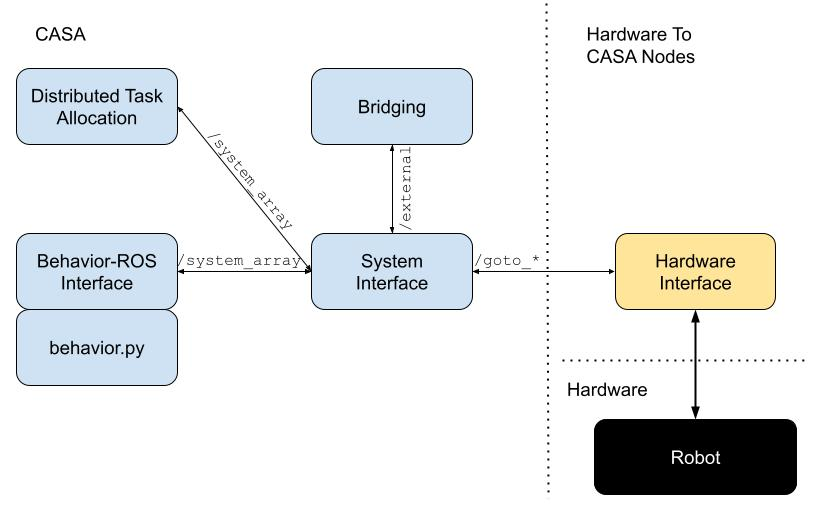
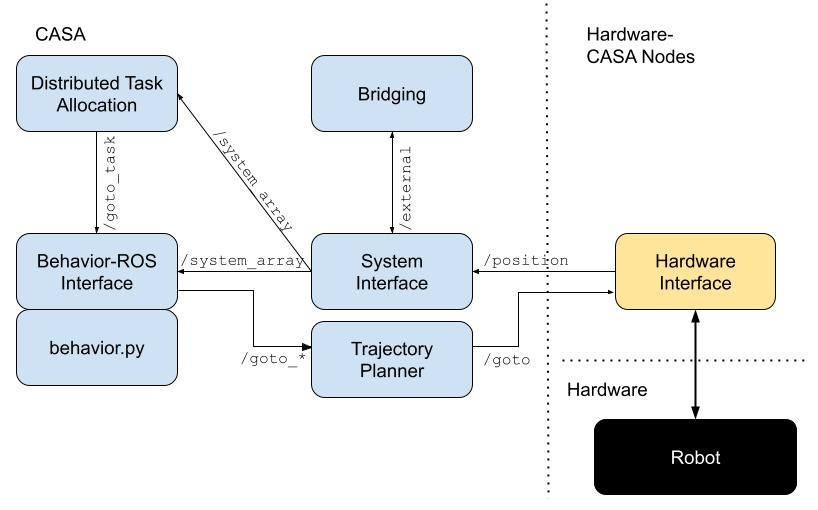
updating main README

diff --git a/README.md b/README.md
@@ -6,10 +6,16 @@ Welcome to the main repo for the Collaborative Aerial Swarm Architecture, dubbed
 The image shows the current arcitecture of CASA. 
 ![architecture](docs/CASA-July2023.jpg)
 
-At the heart of CASA is the System Interface Node. 
+At the heart of CASA is the System Interface Node, this node organizes the data from the each other eagent in the swarm and passes it along via the `/system_array` topic so that other nodes can use it to make informed decisions and plan.  
 
-### Packages ###
+The Distributed Task Allocation node is an implementation of a novel task allocation alogorithm designed for multi-robot systems. This will read in tasks via a kml file and allocate each agent to a task optimally. More tasks can be added in whenever. This node is still under development.
 
+The behavior-ros interface node is the backend for each behavior that is written. It takes in all the information from the system interface and makes puts it in class varaibles so the behavior has access to it (via inheritance). Once the behavior sets a waypoint or velocity the behavior-ros interface either converts it to local frame or passes it straigt to the hardware interface nodes to control the agent.
+
+Bridging is still under contruction, but this plans to make sharing sensor data amongst the swarm extremely easy by bridging any topic with the `/external` namespace. 
+
+To run CASA see this [guide](src/casa_bringup/README.md).
+To run a behavior or create a new one, see this [guide](src/behaviors/README.md).
 
 See the [dev notes](docs/dev.md) 
 

diff --git a/src/behaviors/README.md b/src/behaviors/README.md
@@ -44,4 +44,4 @@ Unique-Behavior-Name:
     param2: b
     ...
 ```
-In your yaml in put the first line should be a unique name for your behvior, `filename` is the name the python file you created in `src/`, class is the name of class you created in your behavior (i.e. `ExampleBehavior`) and finally you can list parameters you want to pass into your behavior. They become ROS 2 parameters so get them the same way you would get any ROS 2 param. 
+In your yaml in put the first line should be a unique name for your behvior, `filename` is the name the python file you created in `src/`, `class` is the name of class you created in your behavior (i.e. `ExampleBehavior`) and finally you can list parameters under `params` that you want to pass into your behavior. They become ROS 2 parameters so get them the same way you would get any ROS 2 param. 
